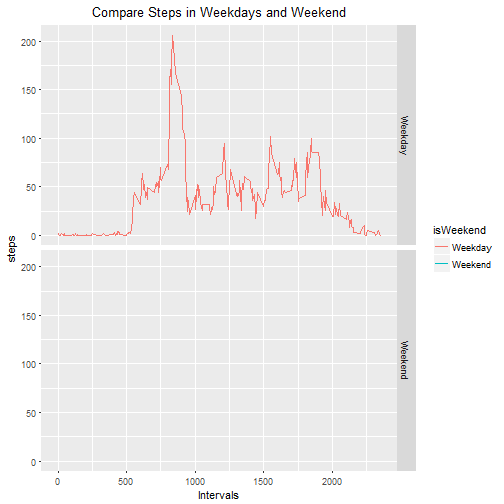
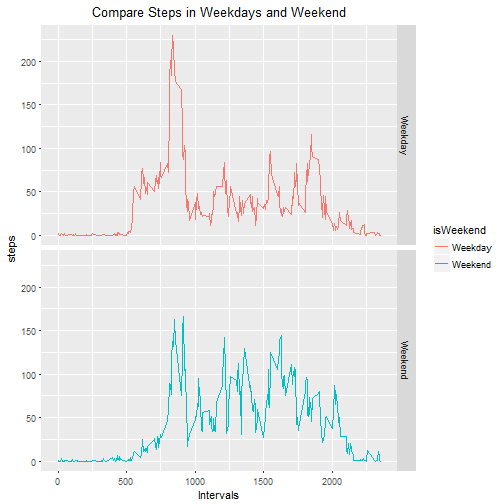
update files

diff --git a/PA1_template.html b/PA1_template.html
@@ -380,7 +380,7 @@ text(median_step, 9, &quot;Median Value&quot;)
 <pre><code class="r">df_noNA$date &lt;- as.character(df_noNA$date)
 df_noNA$date &lt;- as.Date(df_noNA$date)
 df_noNA &lt;- mutate(df_noNA, day=weekdays(date))
-df_noNA &lt;- mutate(df_noNA, IfWeekend = ifelse((day==&quot;Saturday&quot;|day==&quot;Sunday&quot;),&quot;Weekend&quot;,&quot;Weekday&quot;))
+df_noNA &lt;- mutate(df_noNA, IfWeekend = ifelse((day==&quot;星期六&quot;|day==&quot;星期日&quot;),&quot;Weekend&quot;,&quot;Weekday&quot;))
 df_noNA$interval &lt;- as.factor(df_noNA$interval)
 df_noNA$IfWeekend &lt;- as.factor(df_noNA$IfWeekend)
 
@@ -414,7 +414,7 @@ g &lt;- g + theme(plot.title = element_text(hjust = 0.5))
 print(g)
 </code></pre>
 
[2 lines of base64/hex data omitted]
 The plot tells us that the steps taken in morning of weekdays is greater than steps taken in weekend mornings; during the afternoon, steps taken in weekdays and weekend are similar.</p>
 
 </body>
